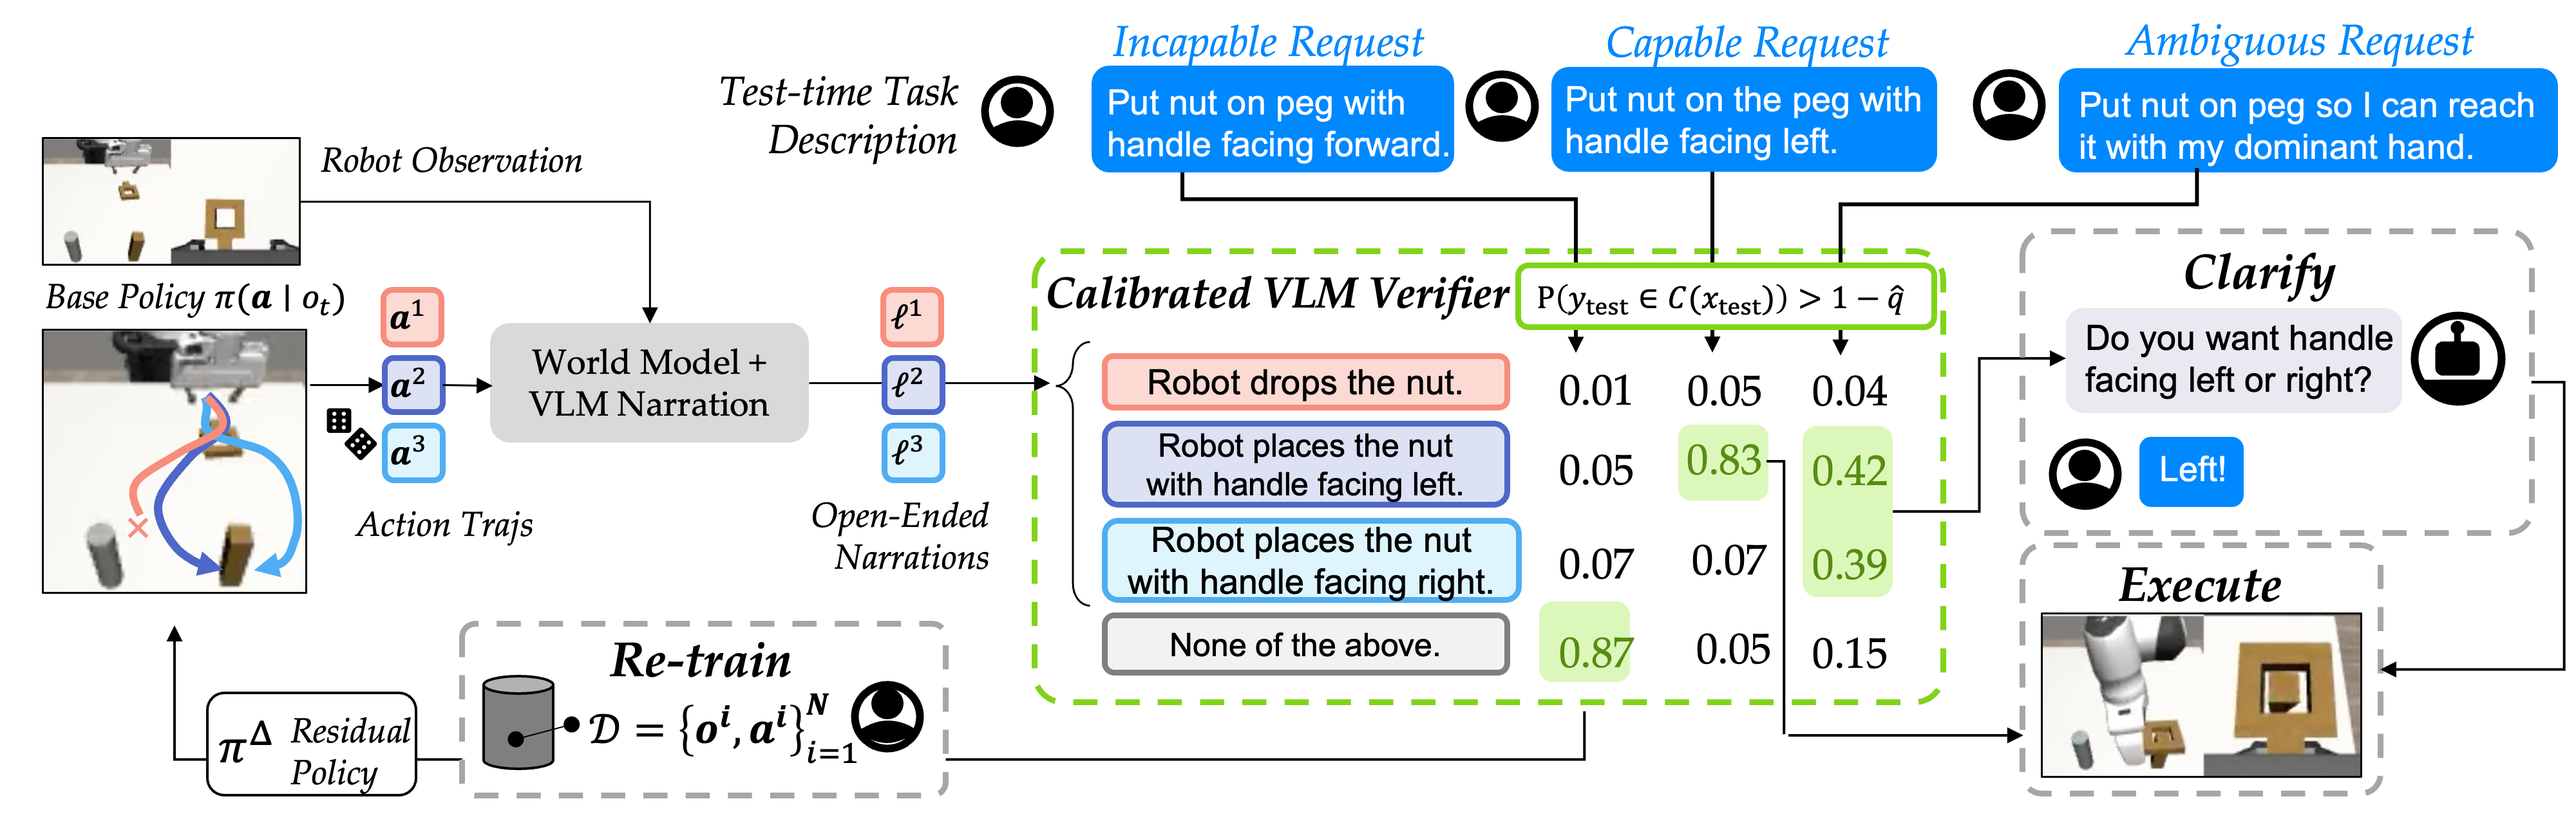
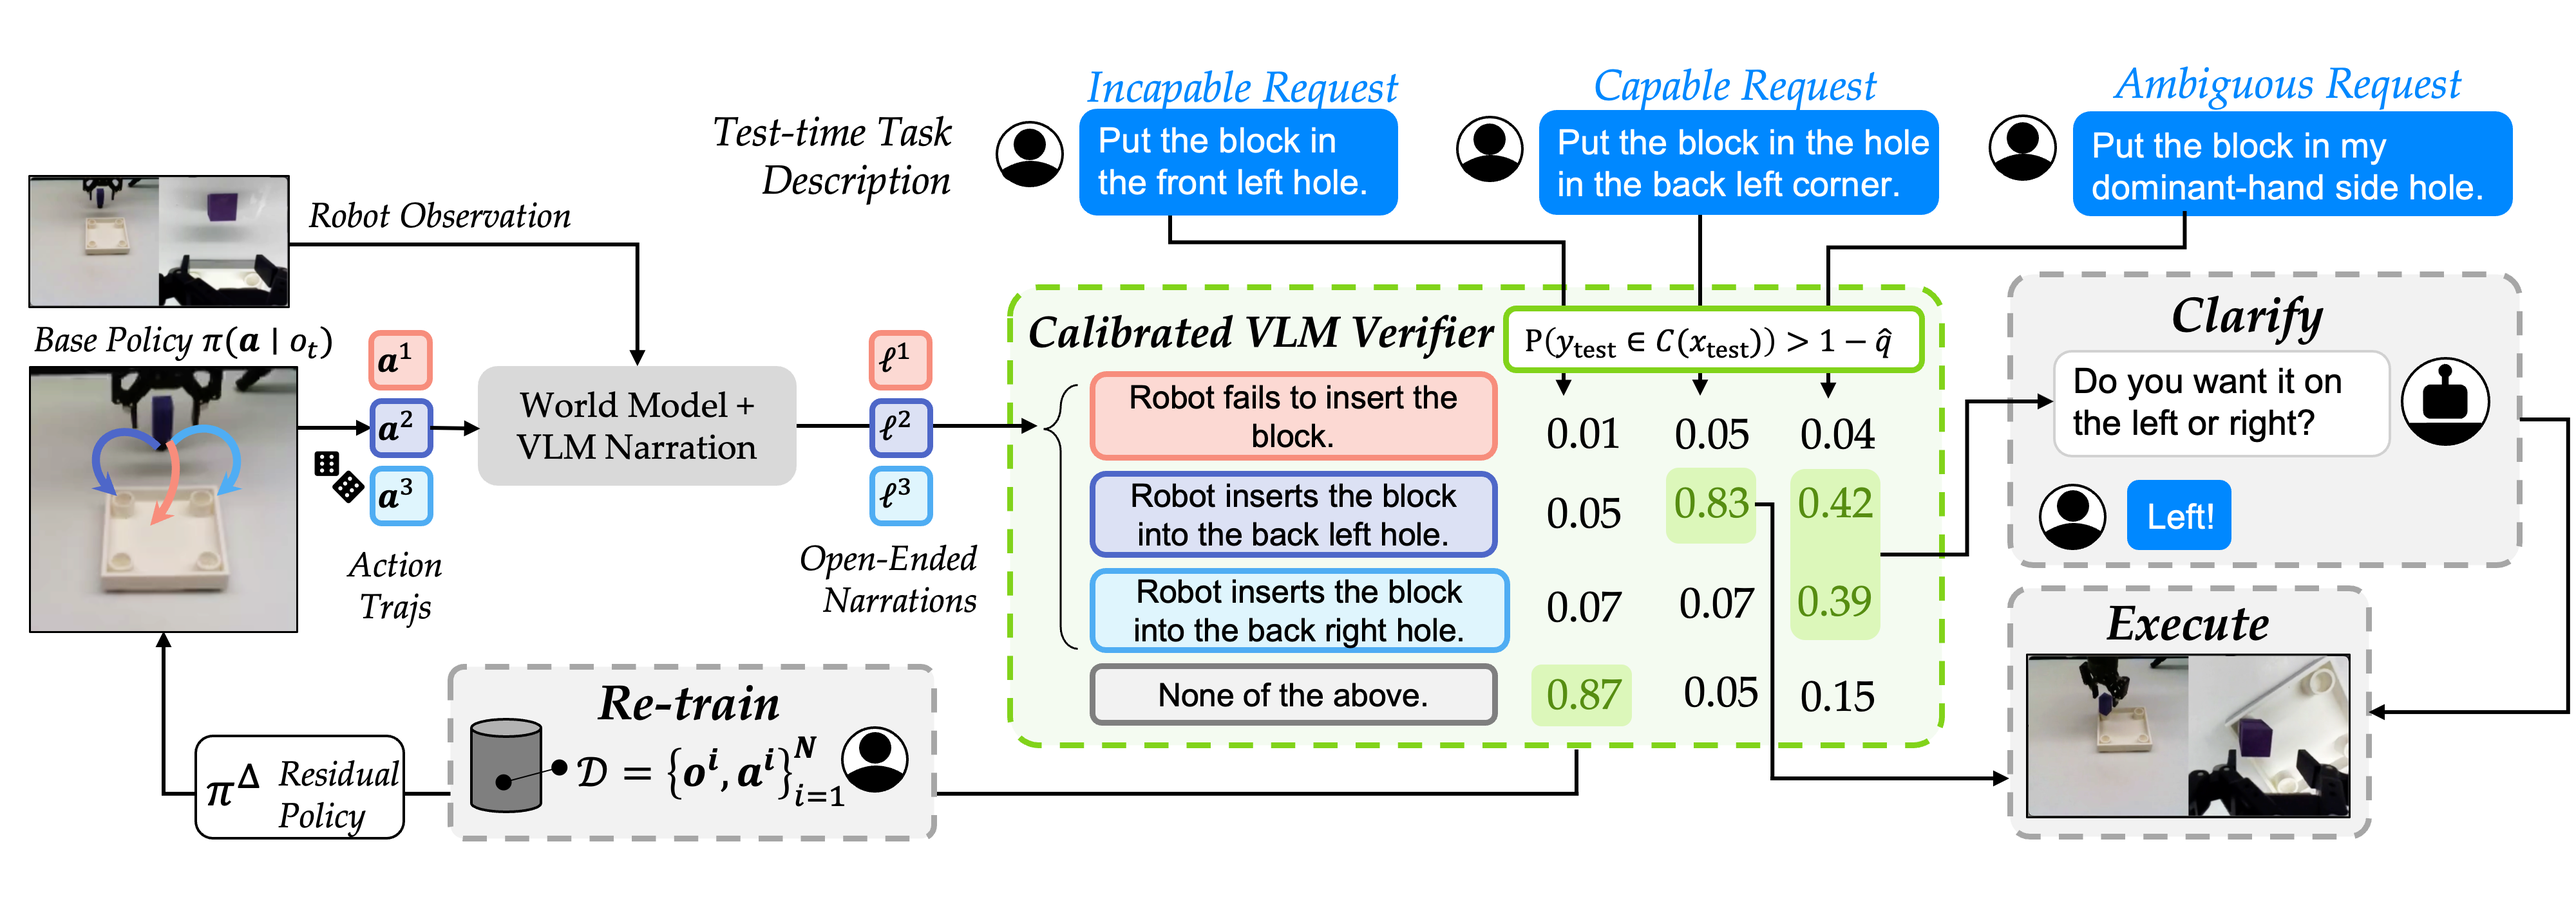
yes

Changed region(s): [[0.0, 0.0311, 1.0, 0.9635]]

diff --git a/index.html b/index.html
@@ -82,7 +82,7 @@
 </head>
 <body>
 
-<nav class="navbar" role="navigation" aria-label="main navigation">
+<!-- <nav class="navbar" role="navigation" aria-label="main navigation">
   <div class="navbar-brand">
     <a role="button" class="navbar-burger" aria-label="menu" aria-expanded="false">
       <span aria-hidden="true"></span>
@@ -99,7 +99,7 @@
       </a>
     </div>
   </div>
-</nav>
+</nav> -->
 
 <section class="hero">
   <div class="hero-body">
@@ -107,7 +107,7 @@
       <div class="columns is-centered">
         <div class="column has-text-centered">
           <h1 class="title is-1 publication-title">When to Act, Ask, or Learn: <br>Uncertainty-Aware Policy Steering</h1>
-          <h1 class="title is-5 publication-title">Under Review</h1>
+          <h1 class="title is-5 publication-title"><em>Robotics: Science and Systems (RSS), 2026</em></h1>
 		  <div class="is-size-5 publication-authors">
 			<span class="author-block">
 				<a href="https://jessie-yuan.github.io/">Jessie Yuan</a><sup>1*</sup>,</span>
